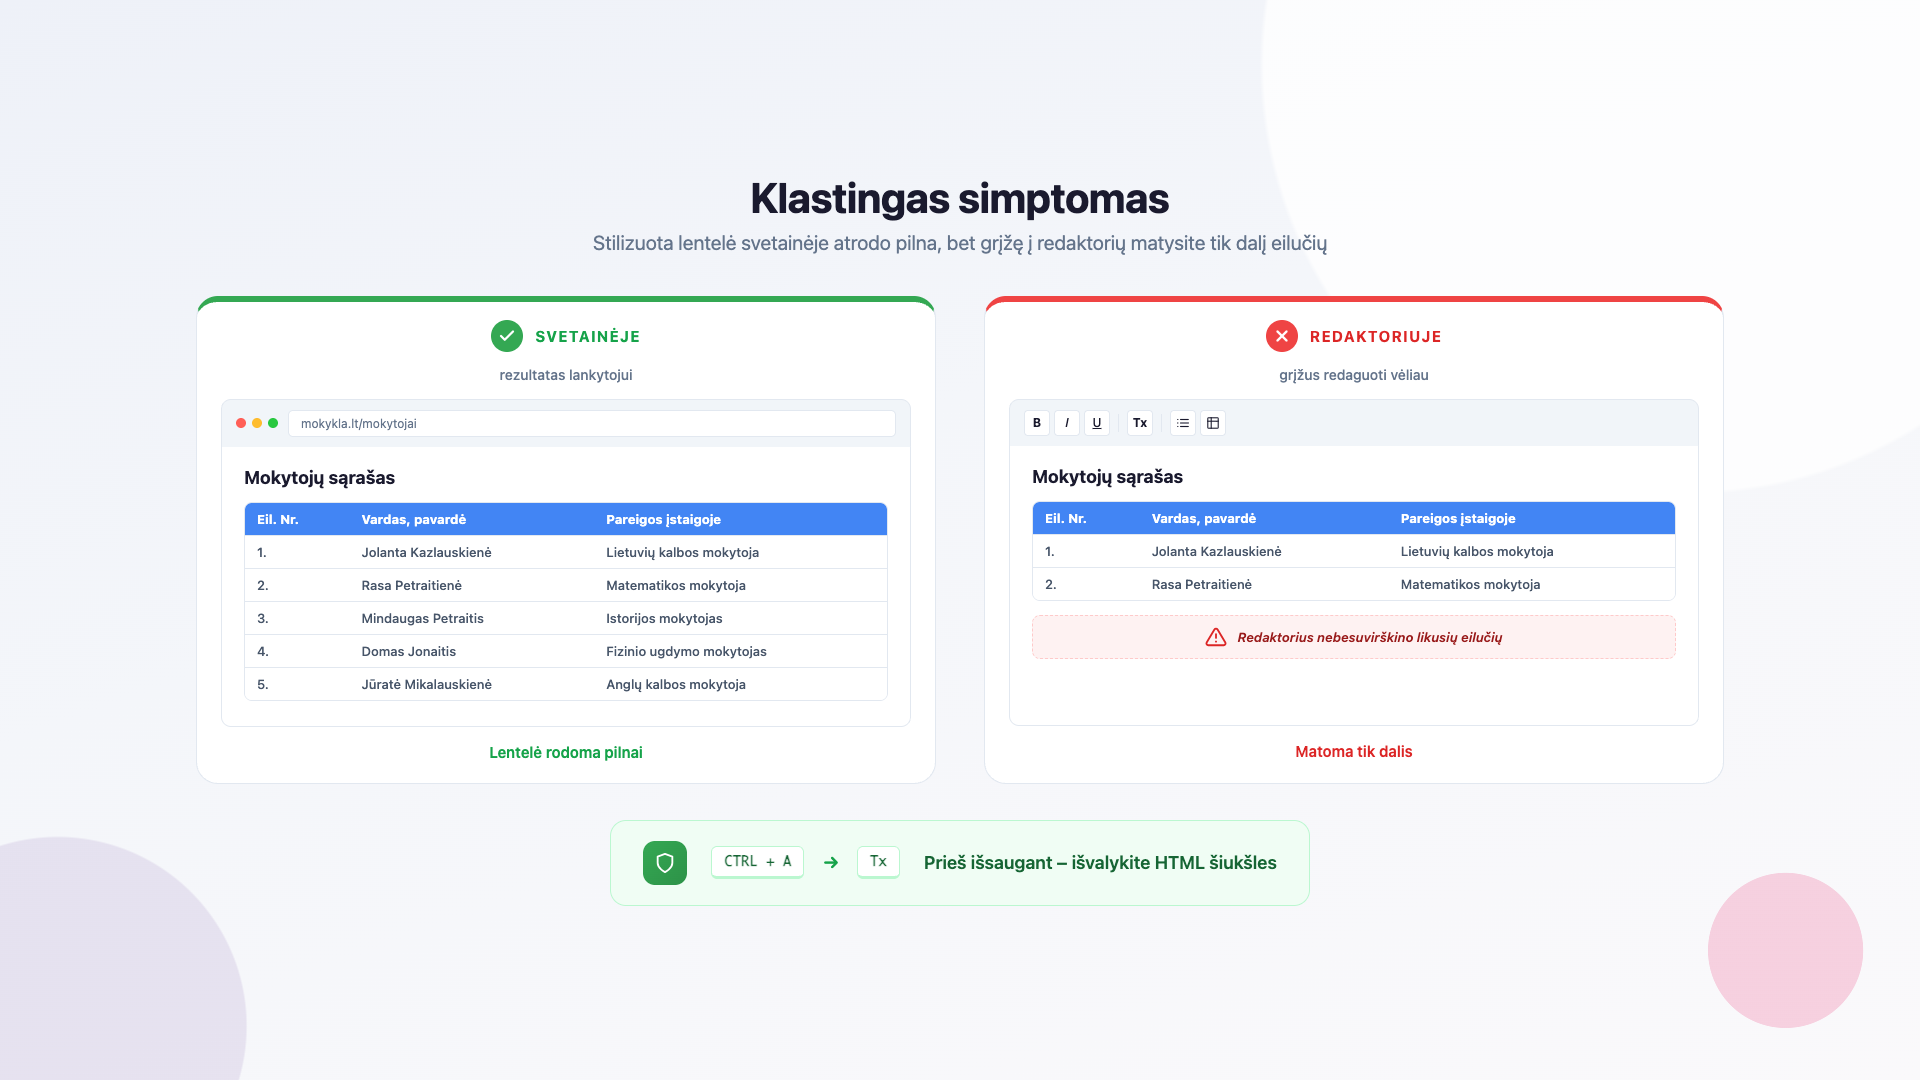
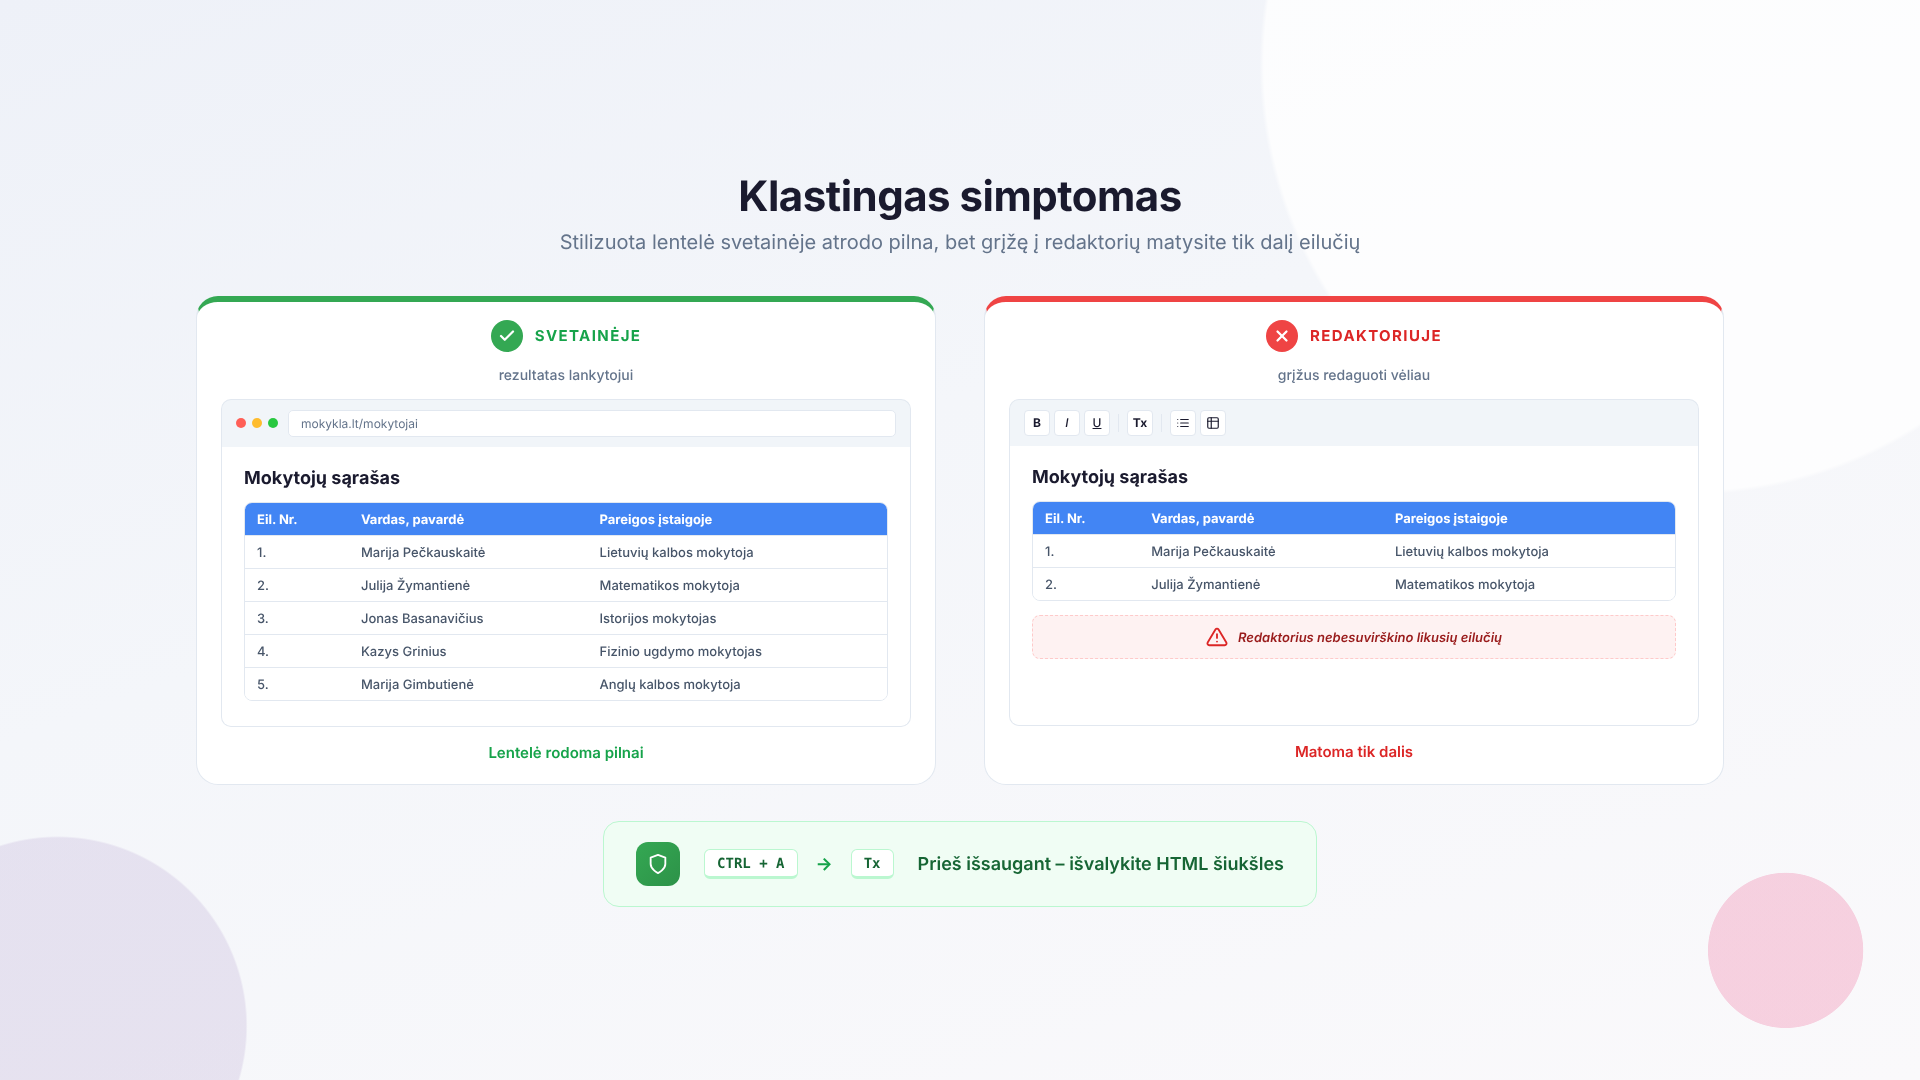
Lentelių redagavimas: iliustracijos 1702–1706 perpieštos — sugalvoti vardai pakeisti garsiais mirusiais lietuviais
Marija Pečkauskaitė, Julija Žymantienė, Jonas Basanavičius, Kazys Grinius, Marija Gimbutienė
(EIMANTO_PASTABOS 2026-09-17). Vardai parinkti panašaus ilgio — lentelių išdėstymas nepakito.

Claude-Session: https://claude.ai/code/session_01AH8p7j7Kzd8xAewVFyPHaZ

diff --git a/lessons/lenteliu-redagavimas-wysiwyg-redaktoriuje/output/lt/06-vizualinio-pertekliaus-klaidos.html b/lessons/lenteliu-redagavimas-wysiwyg-redaktoriuje/output/lt/06-vizualinio-pertekliaus-klaidos.html
@@ -274,9 +274,9 @@
                 <tr><th>Vardas, pavardė</th><th>Pareigos įstaigoje</th></tr>
               </thead>
               <tbody>
-                <tr class="row-a"><td>Jolanta Kazlauskienė</td><td>Lietuvių kalbos mokytoja</td></tr>
-                <tr class="row-b"><td>Rasa Petraitienė</td><td>Matematikos mokytoja</td></tr>
-                <tr class="row-c"><td>Mindaugas Petraitis</td><td>Istorijos mokytojas</td></tr>
+                <tr class="row-a"><td>Marija Pečkauskaitė</td><td>Lietuvių kalbos mokytoja</td></tr>
+                <tr class="row-b"><td>Julija Žymantienė</td><td>Matematikos mokytoja</td></tr>
+                <tr class="row-c"><td>Jonas Basanavičius</td><td>Istorijos mokytojas</td></tr>
               </tbody>
             </table>
           </div>
@@ -307,9 +307,9 @@
                 <tr><th>Vardas, pavardė</th><th>Pareigos įstaigoje</th></tr>
               </thead>
               <tbody>
-                <tr class="size-s"><td>Jolanta Kazlauskienė</td><td>Lietuvių kalbos mokytoja</td></tr>
-                <tr class="size-l"><td>Rasa Petraitienė</td><td>Matematikos mokytoja</td></tr>
-                <tr class="size-m serif"><td>Mindaugas Petraitis</td><td>Istorijos mokytojas</td></tr>
+                <tr class="size-s"><td>Marija Pečkauskaitė</td><td>Lietuvių kalbos mokytoja</td></tr>
+                <tr class="size-l"><td>Julija Žymantienė</td><td>Matematikos mokytoja</td></tr>
+                <tr class="size-m serif"><td>Jonas Basanavičius</td><td>Istorijos mokytojas</td></tr>
               </tbody>
             </table>
           </div>
@@ -340,9 +340,9 @@
                 <tr><th>Vardas, pavardė</th><th>Pareigos įstaigoje</th></tr>
               </thead>
               <tbody>
-                <tr><td>Jolanta Kazlauskienė</td><td>Lietuvių kalbos mokytoja</td></tr>
-                <tr><td>Rasa Petraitienė</td><td>Matematikos mokytoja</td></tr>
-                <tr><td>Mindaugas Petraitis</td><td>Istorijos mokytojas</td></tr>
+                <tr><td>Marija Pečkauskaitė</td><td>Lietuvių kalbos mokytoja</td></tr>
+                <tr><td>Julija Žymantienė</td><td>Matematikos mokytoja</td></tr>
+                <tr><td>Jonas Basanavičius</td><td>Istorijos mokytojas</td></tr>
               </tbody>
             </table>
           </div>
@@ -376,17 +376,17 @@
                 <tr class="group-head-a"><td colspan="3">Mokytojai</td></tr>
                 <tr>
                   <td class="side-label" rowspan="2">A</td>
-                  <td>Jolanta K.</td>
+                  <td>Marija P.</td>
                   <td>Lietuvių k.</td>
                 </tr>
                 <tr>
-                  <td>Rasa P.</td>
+                  <td>Julija Ž.</td>
                   <td>Matematikos</td>
                 </tr>
                 <tr class="group-head-b"><td colspan="3">Tėvai</td></tr>
                 <tr>
                   <td class="side-label">B</td>
-                  <td>Mindaugas P.</td>
+                  <td>Jonas B.</td>
                   <td>Istorijos</td>
                 </tr>
               </tbody>

diff --git a/lessons/lenteliu-redagavimas-wysiwyg-redaktoriuje/output/lt/05-semantikos-klaidos.html b/lessons/lenteliu-redagavimas-wysiwyg-redaktoriuje/output/lt/05-semantikos-klaidos.html
@@ -336,7 +336,7 @@
               </thead>
               <tbody>
                 <tr>
-                  <td>Jolanta Kazlauskienė</td>
+                  <td>Marija Pečkauskaitė</td>
                   <td>
                     <div class="inner-table">
                       <div class="inner-table-grid">
@@ -349,7 +349,7 @@
                   </td>
                 </tr>
                 <tr>
-                  <td>Rasa Petraitienė</td>
+                  <td>Julija Žymantienė</td>
                   <td>Matematikos mokytoja</td>
                 </tr>
               </tbody>
@@ -385,9 +385,9 @@
                 </tr>
               </thead>
               <tbody>
-                <tr><td>Jolanta Kazlauskienė</td><td>Lietuvių kalbos mokytoja</td></tr>
-                <tr><td>Rasa Petraitienė</td><td>Matematikos mokytoja</td></tr>
-                <tr><td>Mindaugas Petraitis</td><td>Istorijos mokytojas</td></tr>
+                <tr><td>Marija Pečkauskaitė</td><td>Lietuvių kalbos mokytoja</td></tr>
+                <tr><td>Julija Žymantienė</td><td>Matematikos mokytoja</td></tr>
+                <tr><td>Jonas Basanavičius</td><td>Istorijos mokytojas</td></tr>
               </tbody>
             </table>
             <div class="fake-header-indicator">!</div>
@@ -421,12 +421,12 @@
                 </tr>
               </thead>
               <tbody>
-                <tr><td>Jolanta Kazlauskienė</td><td>Lietuvių kalbos mokytoja</td></tr>
+                <tr><td>Marija Pečkauskaitė</td><td>Lietuvių kalbos mokytoja</td></tr>
                 <tr class="empty-row">
                   <td colspan="2">(tuščia eilutė)</td>
                 </tr>
-                <tr><td>Rasa Petraitienė</td><td>Matematikos mokytoja</td></tr>
-                <tr><td>Mindaugas Petraitis</td><td>Istorijos mokytojas</td></tr>
+                <tr><td>Julija Žymantienė</td><td>Matematikos mokytoja</td></tr>
+                <tr><td>Jonas Basanavičius</td><td>Istorijos mokytojas</td></tr>
               </tbody>
             </table>
             <div class="empty-row-indicator">!</div>

diff --git a/lessons/lenteliu-redagavimas-wysiwyg-redaktoriuje/output/lt/03-klastingas-simptomas.html b/lessons/lenteliu-redagavimas-wysiwyg-redaktoriuje/output/lt/03-klastingas-simptomas.html
@@ -372,11 +372,11 @@
               </tr>
             </thead>
             <tbody>
-              <tr><td>1.</td><td>Jolanta Kazlauskienė</td><td>Lietuvių kalbos mokytoja</td></tr>
-              <tr><td>2.</td><td>Rasa Petraitienė</td><td>Matematikos mokytoja</td></tr>
-              <tr><td>3.</td><td>Mindaugas Petraitis</td><td>Istorijos mokytojas</td></tr>
-              <tr><td>4.</td><td>Domas Jonaitis</td><td>Fizinio ugdymo mokytojas</td></tr>
-              <tr><td>5.</td><td>Jūratė Mikalauskienė</td><td>Anglų kalbos mokytoja</td></tr>
+              <tr><td>1.</td><td>Marija Pečkauskaitė</td><td>Lietuvių kalbos mokytoja</td></tr>
+              <tr><td>2.</td><td>Julija Žymantienė</td><td>Matematikos mokytoja</td></tr>
+              <tr><td>3.</td><td>Jonas Basanavičius</td><td>Istorijos mokytojas</td></tr>
+              <tr><td>4.</td><td>Kazys Grinius</td><td>Fizinio ugdymo mokytojas</td></tr>
+              <tr><td>5.</td><td>Marija Gimbutienė</td><td>Anglų kalbos mokytoja</td></tr>
             </tbody>
           </table>
         </div>
@@ -436,8 +436,8 @@
               </tr>
             </thead>
             <tbody>
-              <tr><td>1.</td><td>Jolanta Kazlauskienė</td><td>Lietuvių kalbos mokytoja</td></tr>
-              <tr><td>2.</td><td>Rasa Petraitienė</td><td>Matematikos mokytoja</td></tr>
+              <tr><td>1.</td><td>Marija Pečkauskaitė</td><td>Lietuvių kalbos mokytoja</td></tr>
+              <tr><td>2.</td><td>Julija Žymantienė</td><td>Matematikos mokytoja</td></tr>
             </tbody>
           </table>
           <div class="cutoff">

diff --git a/lessons/lenteliu-redagavimas-wysiwyg-redaktoriuje/output/lt/02-antrastine-du-keliai.html b/lessons/lenteliu-redagavimas-wysiwyg-redaktoriuje/output/lt/02-antrastine-du-keliai.html
@@ -434,9 +434,9 @@
             </tr>
           </thead>
           <tbody>
-            <tr><td>1.</td><td>Jolanta Kazlauskienė</td><td>Pirmininkė</td></tr>
-            <tr><td>2.</td><td>Rasa Petraitienė</td><td>Pavaduotoja</td></tr>
-            <tr><td>3.</td><td>Mindaugas Petraitis</td><td>Narys</td></tr>
+            <tr><td>1.</td><td>Marija Pečkauskaitė</td><td>Pirmininkė</td></tr>
+            <tr><td>2.</td><td>Julija Žymantienė</td><td>Pavaduotoja</td></tr>
+            <tr><td>3.</td><td>Jonas Basanavičius</td><td>Narys</td></tr>
           </tbody>
         </table>
       </div>
@@ -504,10 +504,10 @@
         <table class="mini-table">
           <tbody>
             <tr class="group-header"><td colspan="2">Mokytojai</td></tr>
-            <tr><td>Jolanta Kazlauskienė</td><td>Pirmininkė</td></tr>
+            <tr><td>Marija Pečkauskaitė</td><td>Pirmininkė</td></tr>
             <tr class="group-header"><td colspan="2">Tėvai</td></tr>
-            <tr><td>Rasa Petraitienė</td><td>Pavaduotoja</td></tr>
-            <tr><td>Mindaugas Petraitis</td><td>Narys</td></tr>
+            <tr><td>Julija Žymantienė</td><td>Pavaduotoja</td></tr>
+            <tr><td>Jonas Basanavičius</td><td>Narys</td></tr>
           </tbody>
         </table>
       </div>

diff --git a/lessons/lenteliu-redagavimas-wysiwyg-redaktoriuje/output/lt/04-kai-netelpa.html b/lessons/lenteliu-redagavimas-wysiwyg-redaktoriuje/output/lt/04-kai-netelpa.html
@@ -386,9 +386,9 @@
         <div class="step-title">Patikrinkite tarpus celėse</div>
         <div class="step-visual">
           <div class="mini-cell">
-            <span>Jolanta</span>
+            <span>Marija</span>
             <span class="extra-space">···</span>
-            <span>Kazlauskienė</span>
+            <span>Pečkauskaitė</span>
           </div>
         </div>
       </div>
@@ -403,10 +403,10 @@
             <div class="mini-cell-viz head">Vardas</div>
             <div class="mini-cell-viz head">Pareigos</div>
             <div class="mini-cell-viz struck">1</div>
-            <div class="mini-cell-viz">Jolanta K.</div>
+            <div class="mini-cell-viz">Marija P.</div>
             <div class="mini-cell-viz">Mokytoja</div>
             <div class="mini-cell-viz struck">2</div>
-            <div class="mini-cell-viz">Rasa P.</div>
+            <div class="mini-cell-viz">Julija Ž.</div>
             <div class="mini-cell-viz">Mokytoja</div>
           </div>
         </div>

diff --git a/lessons/lenteliu-redagavimas-wysiwyg-redaktoriuje/templates/04-kai-netelpa.html b/lessons/lenteliu-redagavimas-wysiwyg-redaktoriuje/templates/04-kai-netelpa.html
@@ -386,9 +386,9 @@
         <div class="step-title">{{step3_title}}</div>
         <div class="step-visual">
           <div class="mini-cell">
-            <span>Jolanta</span>
+            <span>Marija</span>
             <span class="extra-space">···</span>
-            <span>Kazlauskienė</span>
+            <span>Pečkauskaitė</span>
           </div>
         </div>
       </div>
@@ -403,10 +403,10 @@
             <div class="mini-cell-viz head">Vardas</div>
             <div class="mini-cell-viz head">Pareigos</div>
             <div class="mini-cell-viz struck">1</div>
-            <div class="mini-cell-viz">Jolanta K.</div>
+            <div class="mini-cell-viz">Marija P.</div>
             <div class="mini-cell-viz">Mokytoja</div>
             <div class="mini-cell-viz struck">2</div>
-            <div class="mini-cell-viz">Rasa P.</div>
+            <div class="mini-cell-viz">Julija Ž.</div>
             <div class="mini-cell-viz">Mokytoja</div>
           </div>
         </div>
